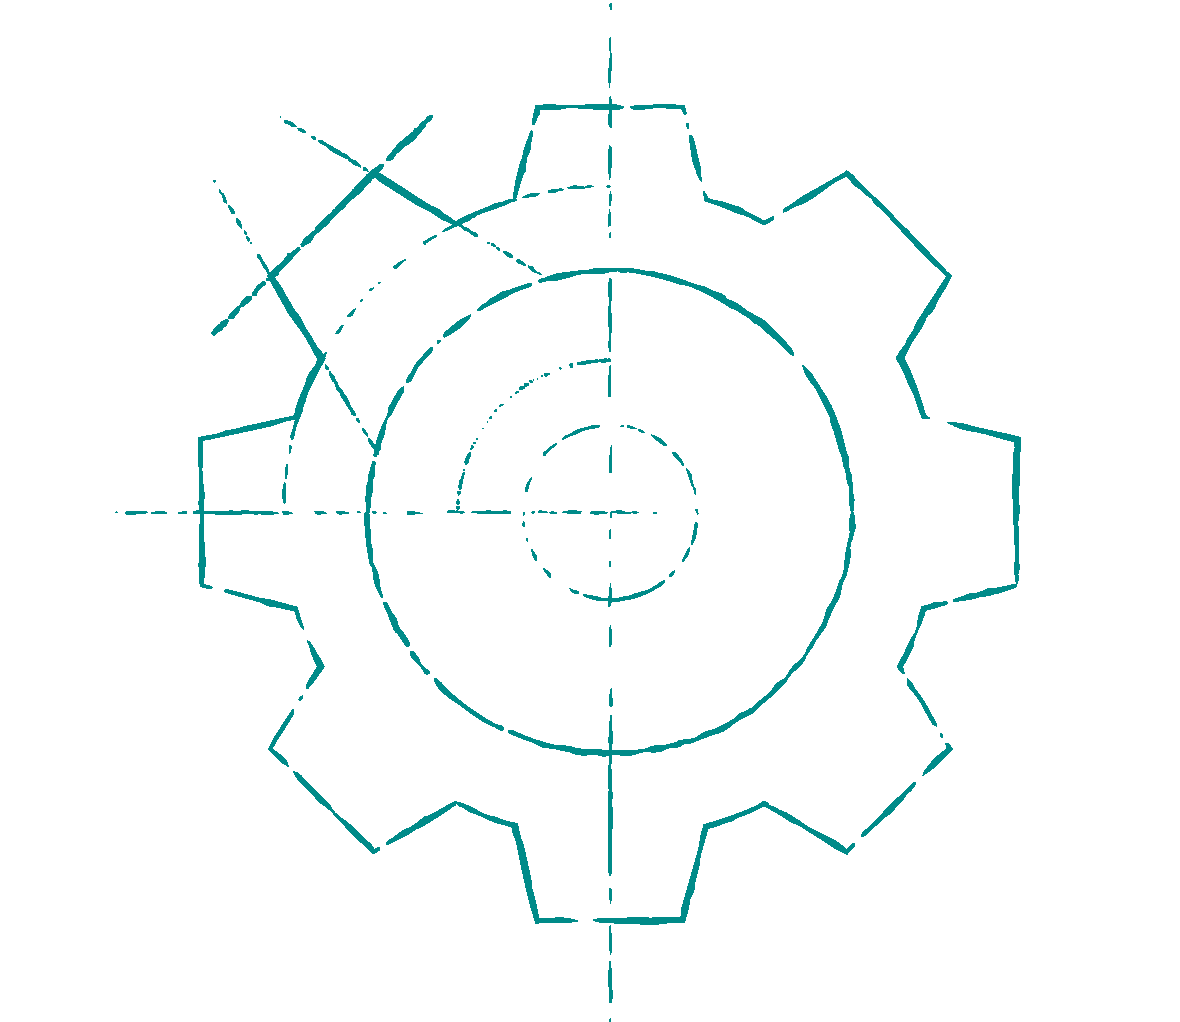
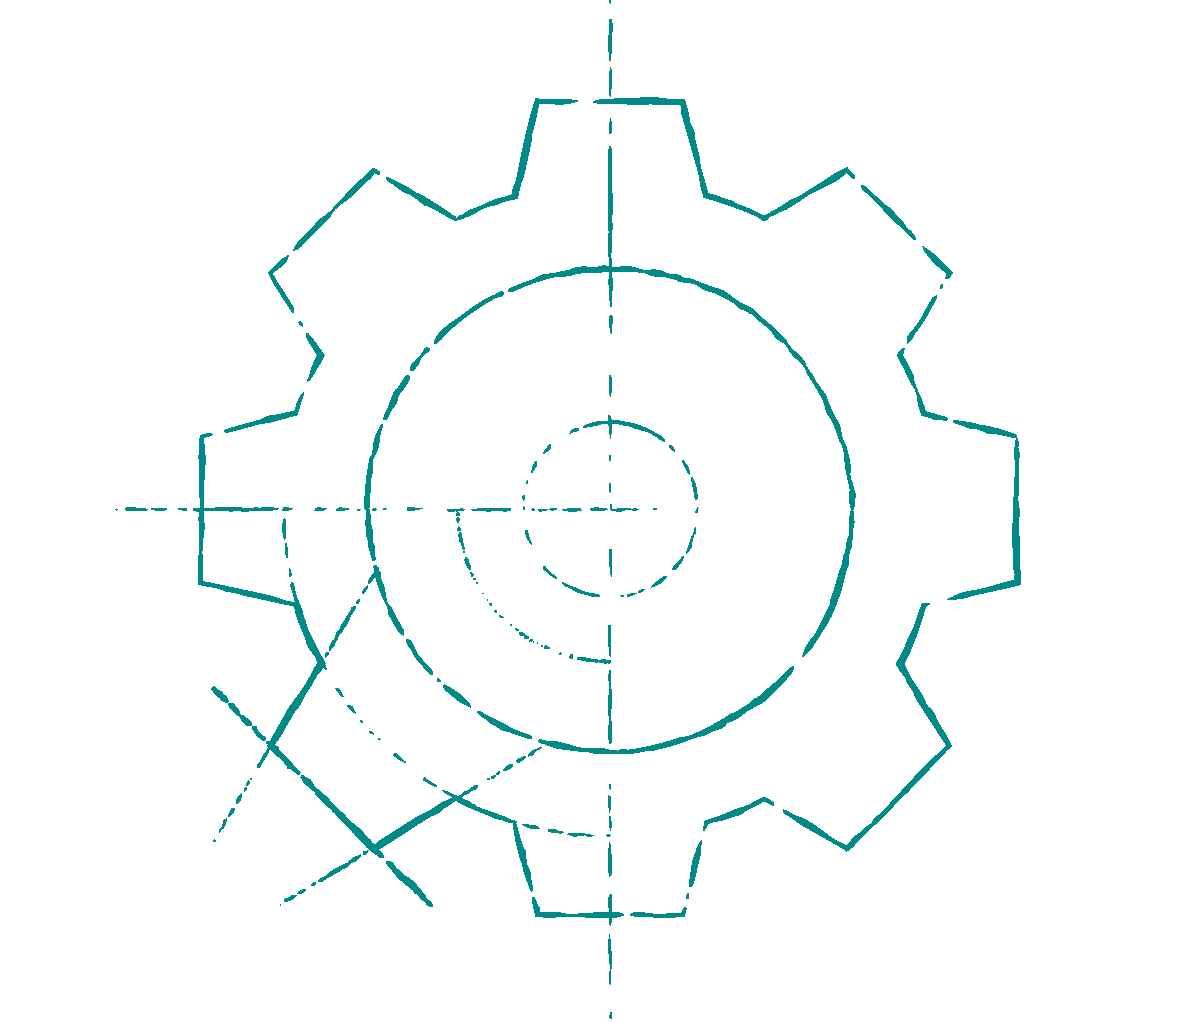
More review fixes:
- Use fira sans for slider toggle open links (oops!)
- Adjust line height/padding on intro headlines
- Fix toggle open link display bug at tablet viewport
- Alter green gear image (flipped vertically)

diff --git a/media/css/mozorg/home/home-b.less b/media/css/mozorg/home/home-b.less
@@ -307,6 +307,7 @@ main {
 
     h2 {
         .font-size(24px);
+        line-height: 1.3;
         padding: 40px 0 0;
         text-transform: uppercase;
     }
@@ -406,7 +407,7 @@ main {
         }
 
         h3 {
-            padding-bottom: 20px;
+            padding-bottom: 50px;
         }
 
         @media @mq-tablet {
@@ -658,11 +659,13 @@ main {
             }
 
             .toggle-open {
+                .fira-sans;
                 .font-size(26px);
                 font-weight: bold;
                 height: 40px;
                 margin: 0 auto 4px;
                 text-decoration: underline;
+                white-space: nowrap;
             }
 
             .toggle-close {
